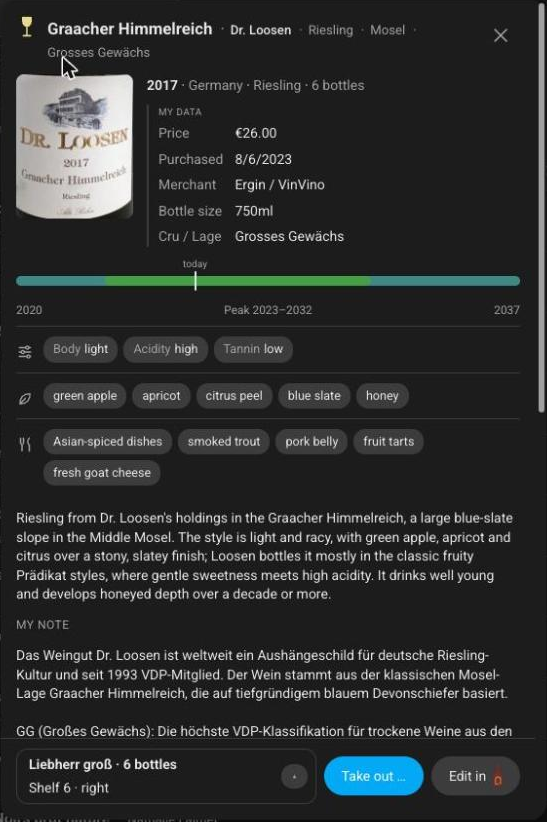
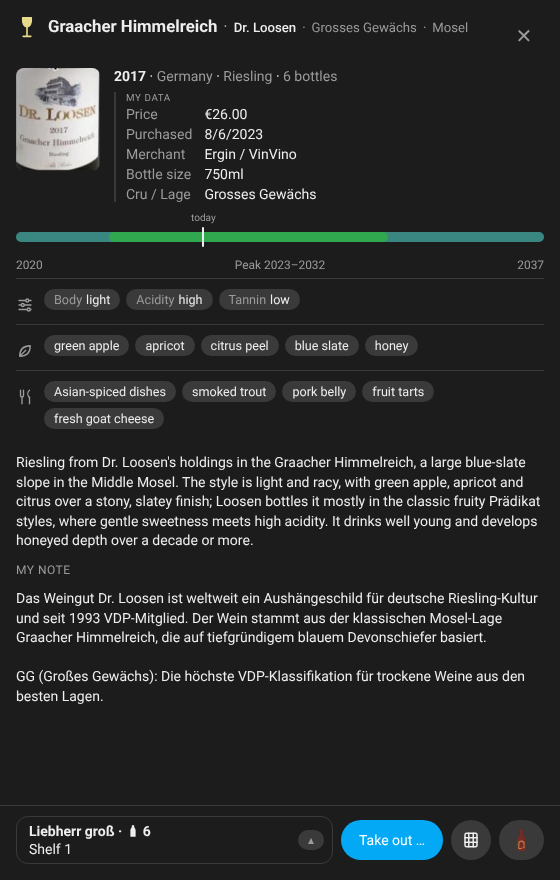
README: updated detail screenshot, new screenshot for several cellars
Claude-Session: https://claude.ai/code/session_019auwNqcqKEcj63HA2hK6vA

diff --git a/README.md b/README.md
@@ -17,7 +17,7 @@ browse your whole cellar at a glance, filter it, see where each bottle lies and 
 </p>
 
 <p align="center">
-  <img src="https://raw.githubusercontent.com/d3rb3rt/ha-cellarion-cellar-card/main/docs/detail.png?v=1.0.0" alt="Bottle details with label image" width="380">
+  <img src="https://raw.githubusercontent.com/d3rb3rt/ha-cellarion-cellar-card/main/docs/detail.png?v=2.4.1" alt="Bottle details with label image" width="380">
   <img src="https://raw.githubusercontent.com/d3rb3rt/ha-cellarion-cellar-card/main/docs/phone.png?v=2.4.0" alt="Phone layout" width="300"><br>
   <em>Bottle details with label image, drink window, profile and storage places · the same card on a phone.</em>
 </p>
@@ -124,6 +124,11 @@ Update automations and scripts that call the old services or the old sensor by h
   red = past the window. The same colours are used in the drink-window bar in the details.
 - **Details**: *Take out …* asks for the reason and confirms before anything is written. *Edit in Cellarion* opens the
   bottle in the Cellarion app.
+
+<p align="center">
+  <img src="https://raw.githubusercontent.com/d3rb3rt/ha-cellarion-cellar-card/main/docs/cellars.png?v=2.4.1" alt="Cellar pulldown with All cellars" width="620"><br>
+  <em>With several cellars: the cellar pulldown, and a cellar tag on every place in the combined view.</em>
+</p>
 
 ## Rack view
 
